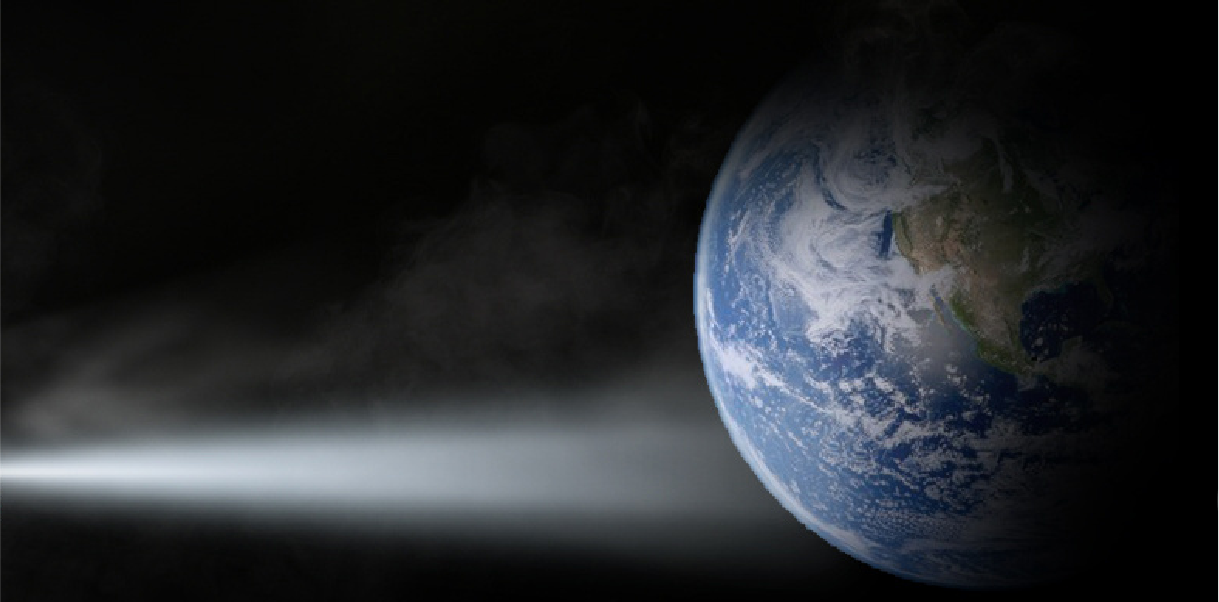
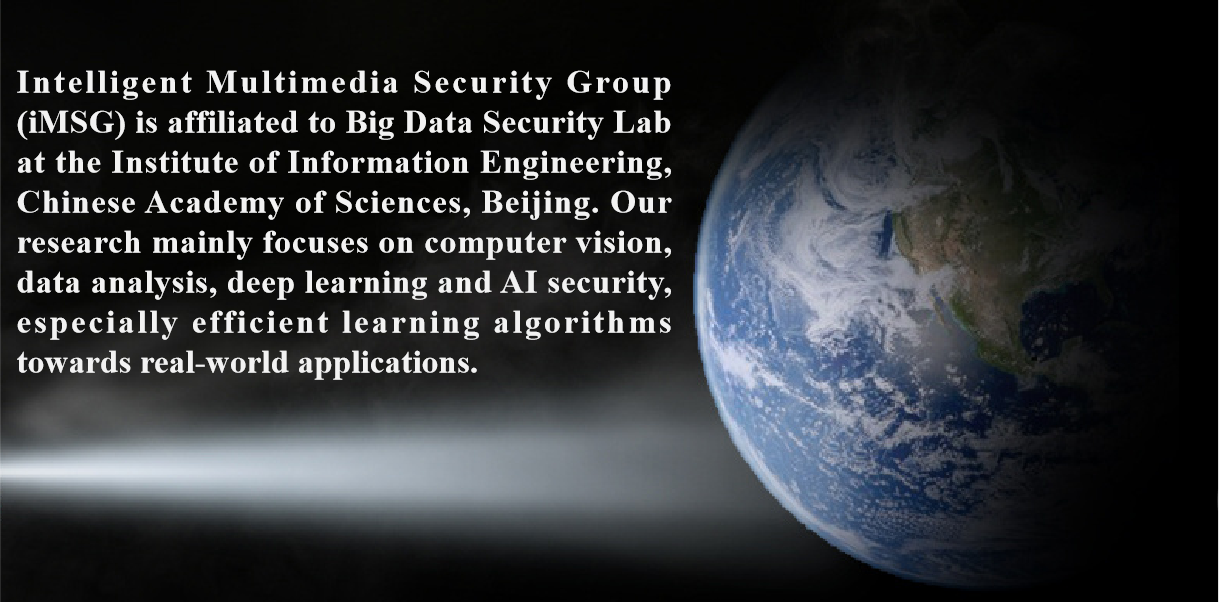
replace img

Changed region(s): [[0.0, 0.1196, 0.5611, 0.3588], [0.0, 0.3887, 0.5611, 0.6279]]

diff --git a/home.html b/home.html
@@ -31,6 +31,13 @@
       vertical-align: baseline;
       background-color: #3a87ad;
     }
+
+    .img-text {
+      color: white;
+      position: absolute;
+      left: 15%;
+      top: 10px;
+    }
   </style>
   <script src="js/jquery.min.js"></script>
   <!-- <script defer src="https://use.fontawesome.com/releases/v5.9.0/js/all.js"></script> -->
@@ -125,7 +132,8 @@
       </div>
     </div>
 
-    <div style="text-align: center; ">
+
+    <div style="text-align: center; position:relative;">
       <img src="home.png">
     </div>
 
@@ -148,6 +156,7 @@
           <img src="img/home2/3.webp" style="width:100%; height:auto;" alt="Third slide">
         </div>
       </div>
+
       <a class="left carousel-control" href="#myCarousel" role="button" data-slide="prev">
         <span class="glyphicon glyphicon-chevron-left" aria-hidden="true"></span>
         <span class="sr-only">Previous</span>
@@ -169,7 +178,10 @@
         <div class="col-6">
           <h3>Intelligent Multimedia Security Group</h3>
           <p>The <span style="color:blue;">I</span>ntelligent <span style="color:blue;">M</span>ultimedia <span
-          style="color:blue;">S</span>ecurity <span style="color:blue;">G</span>roup（IMSG）is affiliated to Big Data Security Lab in the Institute of Information Engineering, Chinese Academy of Sciences.  The research mainly focuses on computer vision, data analysis, machine learning and AI security, especially effificient learning algorithms toward scalable applications.</p>
+              style="color:blue;">S</span>ecurity <span style="color:blue;">G</span>roup（IMSG）is affiliated to Big Data
+            Security Lab in the Institute of Information Engineering, Chinese Academy of Sciences. The research mainly
+            focuses on computer vision, data analysis, machine learning and AI security, especially effificient learning
+            algorithms toward scalable applications.</p>
           <!-- <p>The <span style="color:blue;">I</span>ntelligent <span style="color:blue;">M</span>ultimedia <span
               style="color:blue;">S</span>ecurity <span style="color:blue;">G</span>roup（IMSG）is affiliated to Big Data
             Security Lab in the Institute of Information Engineering, Chinese Academy of Sciences. The main research
